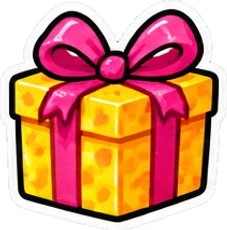
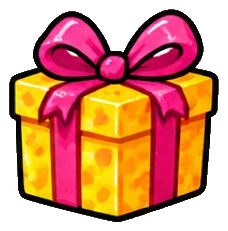
Bottons de presente (amarelo, turquesa e rosa): recorte refeito, sem cinza no topo

diff --git a/src/lib/badges.ts b/src/lib/badges.ts
@@ -116,8 +116,8 @@ export const BADGES: readonly BadgeDef[] = [
   { key: 105, ratio: 0.626, name: "Pirulito" },
   { key: 106, ratio: 1.144, name: "Rosquinha rosa" },
   { key: 107, ratio: 0.987, name: "Presente amarelo" },
-  { key: 108, ratio: 0.874, name: "Presente turquesa" },
-  { key: 109, ratio: 0.922, name: "Presente rosa" },
+  { key: 108, ratio: 0.879, name: "Presente turquesa" },
+  { key: 109, ratio: 0.93, name: "Presente rosa" },
   { key: 110, ratio: 0.961, name: "Cornetas de festa" },
   { key: 111, ratio: 0.604, name: "Confete de estrelas" },
   { key: 112, ratio: 0.761, name: "Serpentina" },
